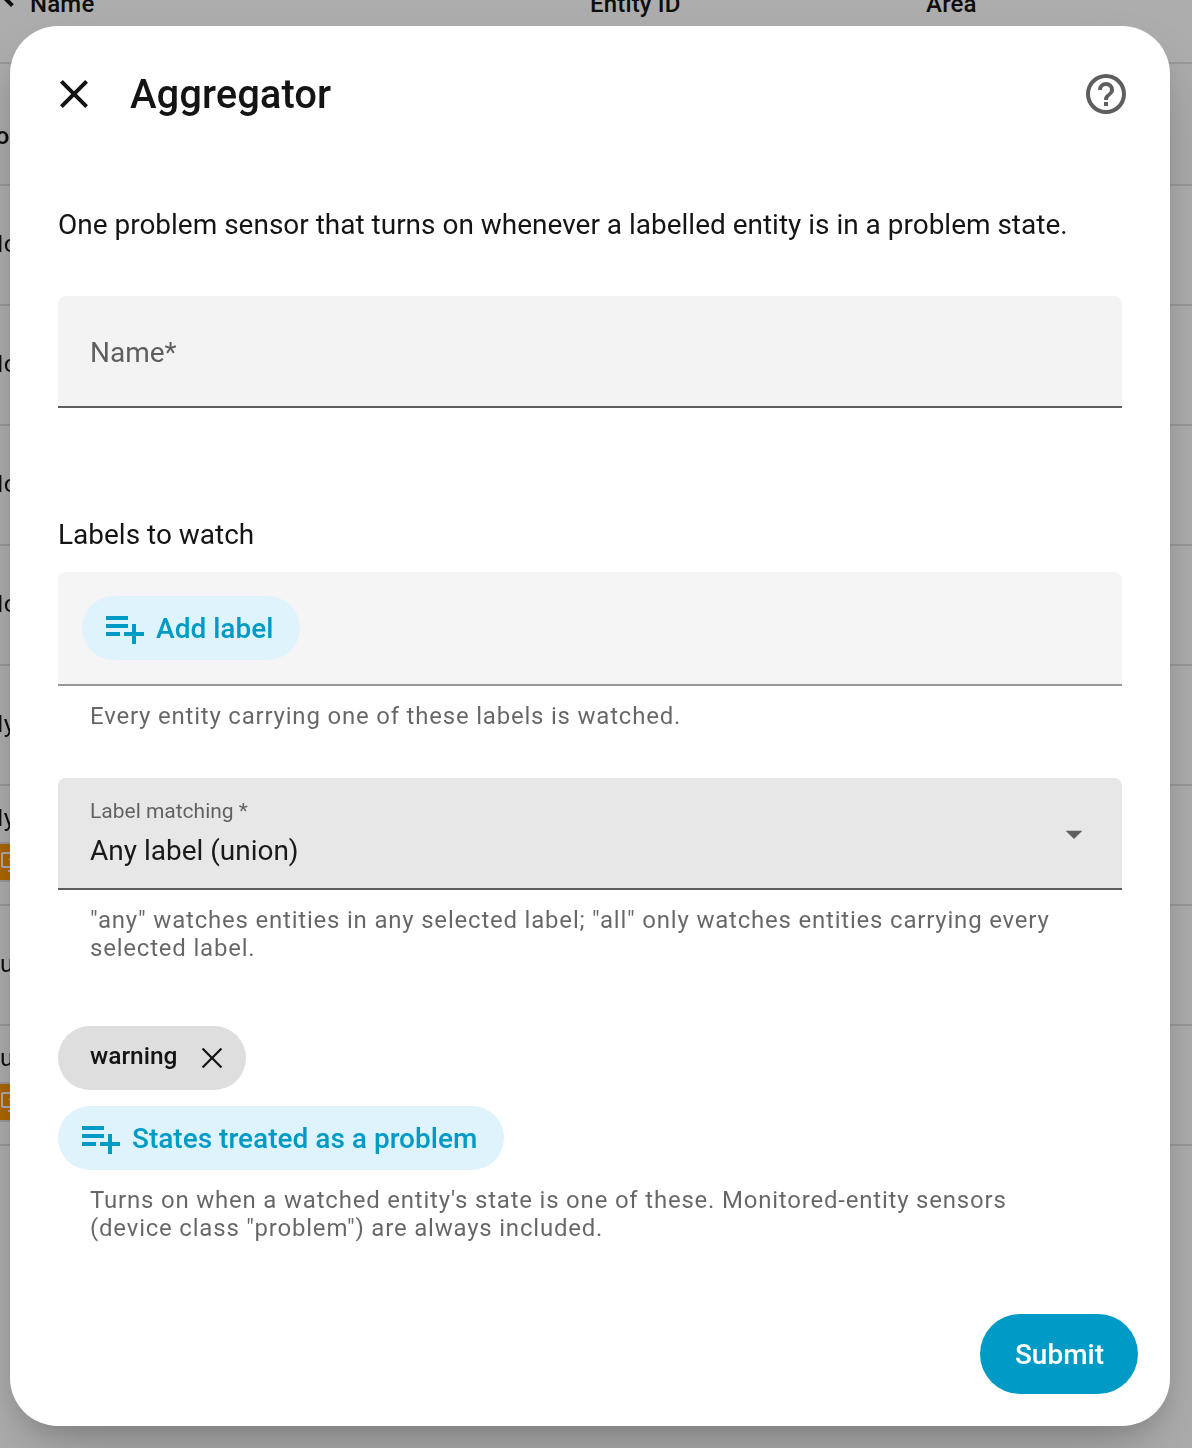
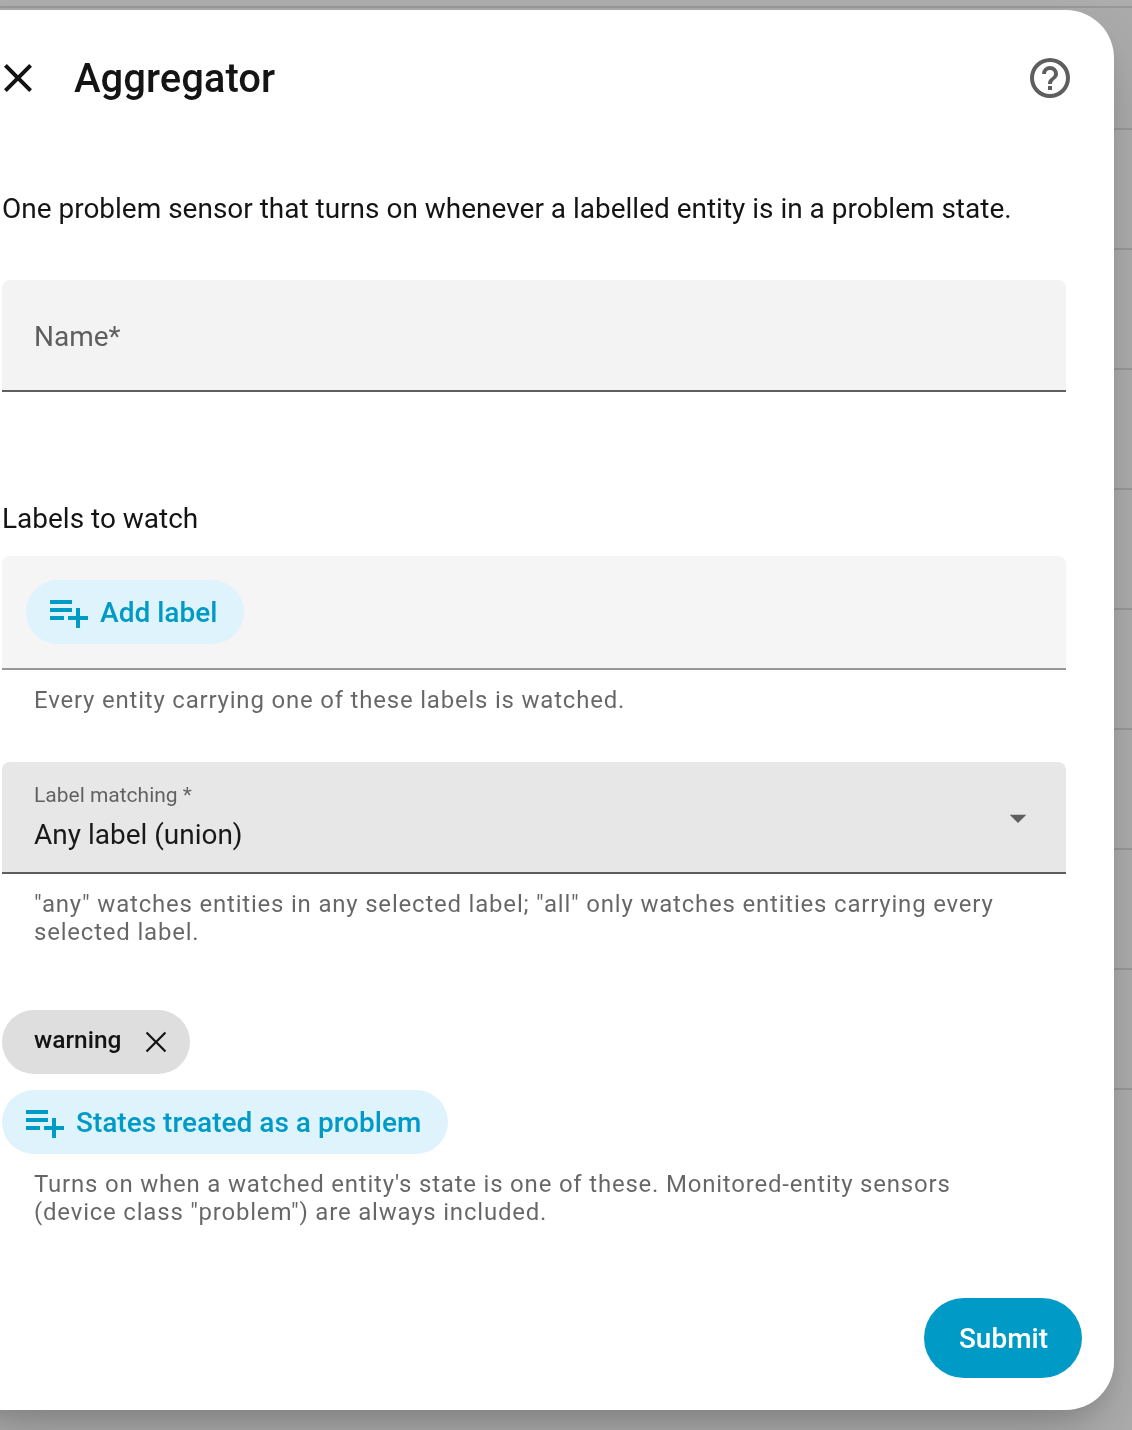
docs: dark-mode screenshots
Add -dark.png twins of all five screenshots (captured with the HA UI in
dark mode) and switch the README to <picture> + prefers-color-scheme so
GitHub shows whichever matches the reader's theme.

Claude-Session: https://claude.ai/code/session_01XvZ7pJnzPLgCyzA87qC3ay

Changed region(s): [[0.0, 0.0, 0.9894, 1.0], [0.8039, 0.9231, 0.9276, 0.9538], [0.9585, 0.9538, 0.9894, 0.9846]]

diff --git a/README.md b/README.md
@@ -71,7 +71,10 @@ entity that carries a label you choose.
    Aggregator**.
 3. Choose **Aggregator**.
 
-   <img src="docs/images/wa-menu.png" alt="The Warning Aggregator helper-type menu: Monitored entity or Aggregator" width="560">
+   <picture>
+     <source media="(prefers-color-scheme: dark)" srcset="docs/images/wa-menu-dark.png">
+     <img src="docs/images/wa-menu.png" alt="The Warning Aggregator helper-type menu: Monitored entity or Aggregator" width="560">
+   </picture>
 
 4. Fill in the form and **Submit**:
 
@@ -82,7 +85,10 @@ entity that carries a label you choose.
    | **Label matching** | *Any label* — watch entities in any selected label (*All* = only entities carrying every one) |
    | **States treated as a problem** | leave as `warning` — Monitored-entity sensors are always counted regardless |
 
-<img src="docs/images/create-aggregator.png" alt="The Aggregator helper form" width="620">
+<picture>
+  <source media="(prefers-color-scheme: dark)" srcset="docs/images/create-aggregator-dark.png">
+  <img src="docs/images/create-aggregator.png" alt="The Aggregator helper form" width="620">
+</picture>
 
 `binary_sensor.house_status` is now created. It stays **off** until a monitored
 entity trips. To change any of this later: **Helpers →** click the helper **→ the
@@ -111,7 +117,10 @@ dropping out…
    | text | **Text to match** (case-insensitive), **Comparison** `equals` / `contains`, and **A match means** `a problem` or `OK` (anything else being the problem) |
    | *any of the above* | **When there is no value** (unavailable / unknown / null) → *treat as a problem* (default) or *treat as OK* |
 
-<img src="docs/images/monitor-entity.png" alt="The adaptive check form for a numeric entity" width="620">
+<picture>
+  <source media="(prefers-color-scheme: dark)" srcset="docs/images/monitor-entity-dark.png">
+  <img src="docs/images/monitor-entity.png" alt="The adaptive check form for a numeric entity" width="620">
+</picture>
 
 You get `binary_sensor.<name>` (device class **Problem**) — `on` when the check
 fails — with a **`reason`** attribute explaining the verdict (`12 is below 20`,
@@ -141,8 +150,14 @@ the count and a tap-through list of the tripped monitors (tap a row for its
 more-info dialog).
 
 <p>
-  <img src="docs/images/card-ok.png" alt="Card: all sensors OK" width="330">
-  <img src="docs/images/card-problem.png" alt="Card: two sensors need attention, listed" width="330">
+  <picture>
+    <source media="(prefers-color-scheme: dark)" srcset="docs/images/card-ok-dark.png">
+    <img src="docs/images/card-ok.png" alt="Card: all sensors OK" width="330">
+  </picture>
+  <picture>
+    <source media="(prefers-color-scheme: dark)" srcset="docs/images/card-problem-dark.png">
+    <img src="docs/images/card-problem.png" alt="Card: two sensors need attention, listed" width="330">
+  </picture>
 </p>
 
 <details><summary>YAML / all card options</summary>

diff --git a/docs/images/README.md b/docs/images/README.md
@@ -3,6 +3,9 @@
 Used by the root `README.md` "Usage" section. Captured from a real Home
 Assistant with `brands/../` on a sandbox instance (Playwright).
 
+Each has a `-dark.png` twin; the README swaps them with `<picture>` +
+`prefers-color-scheme`.
+
 | File | Shows |
 | --- | --- |
 | `wa-menu.png` | the **Warning Aggregator** helper-type menu (Monitored entity / Aggregator) |
